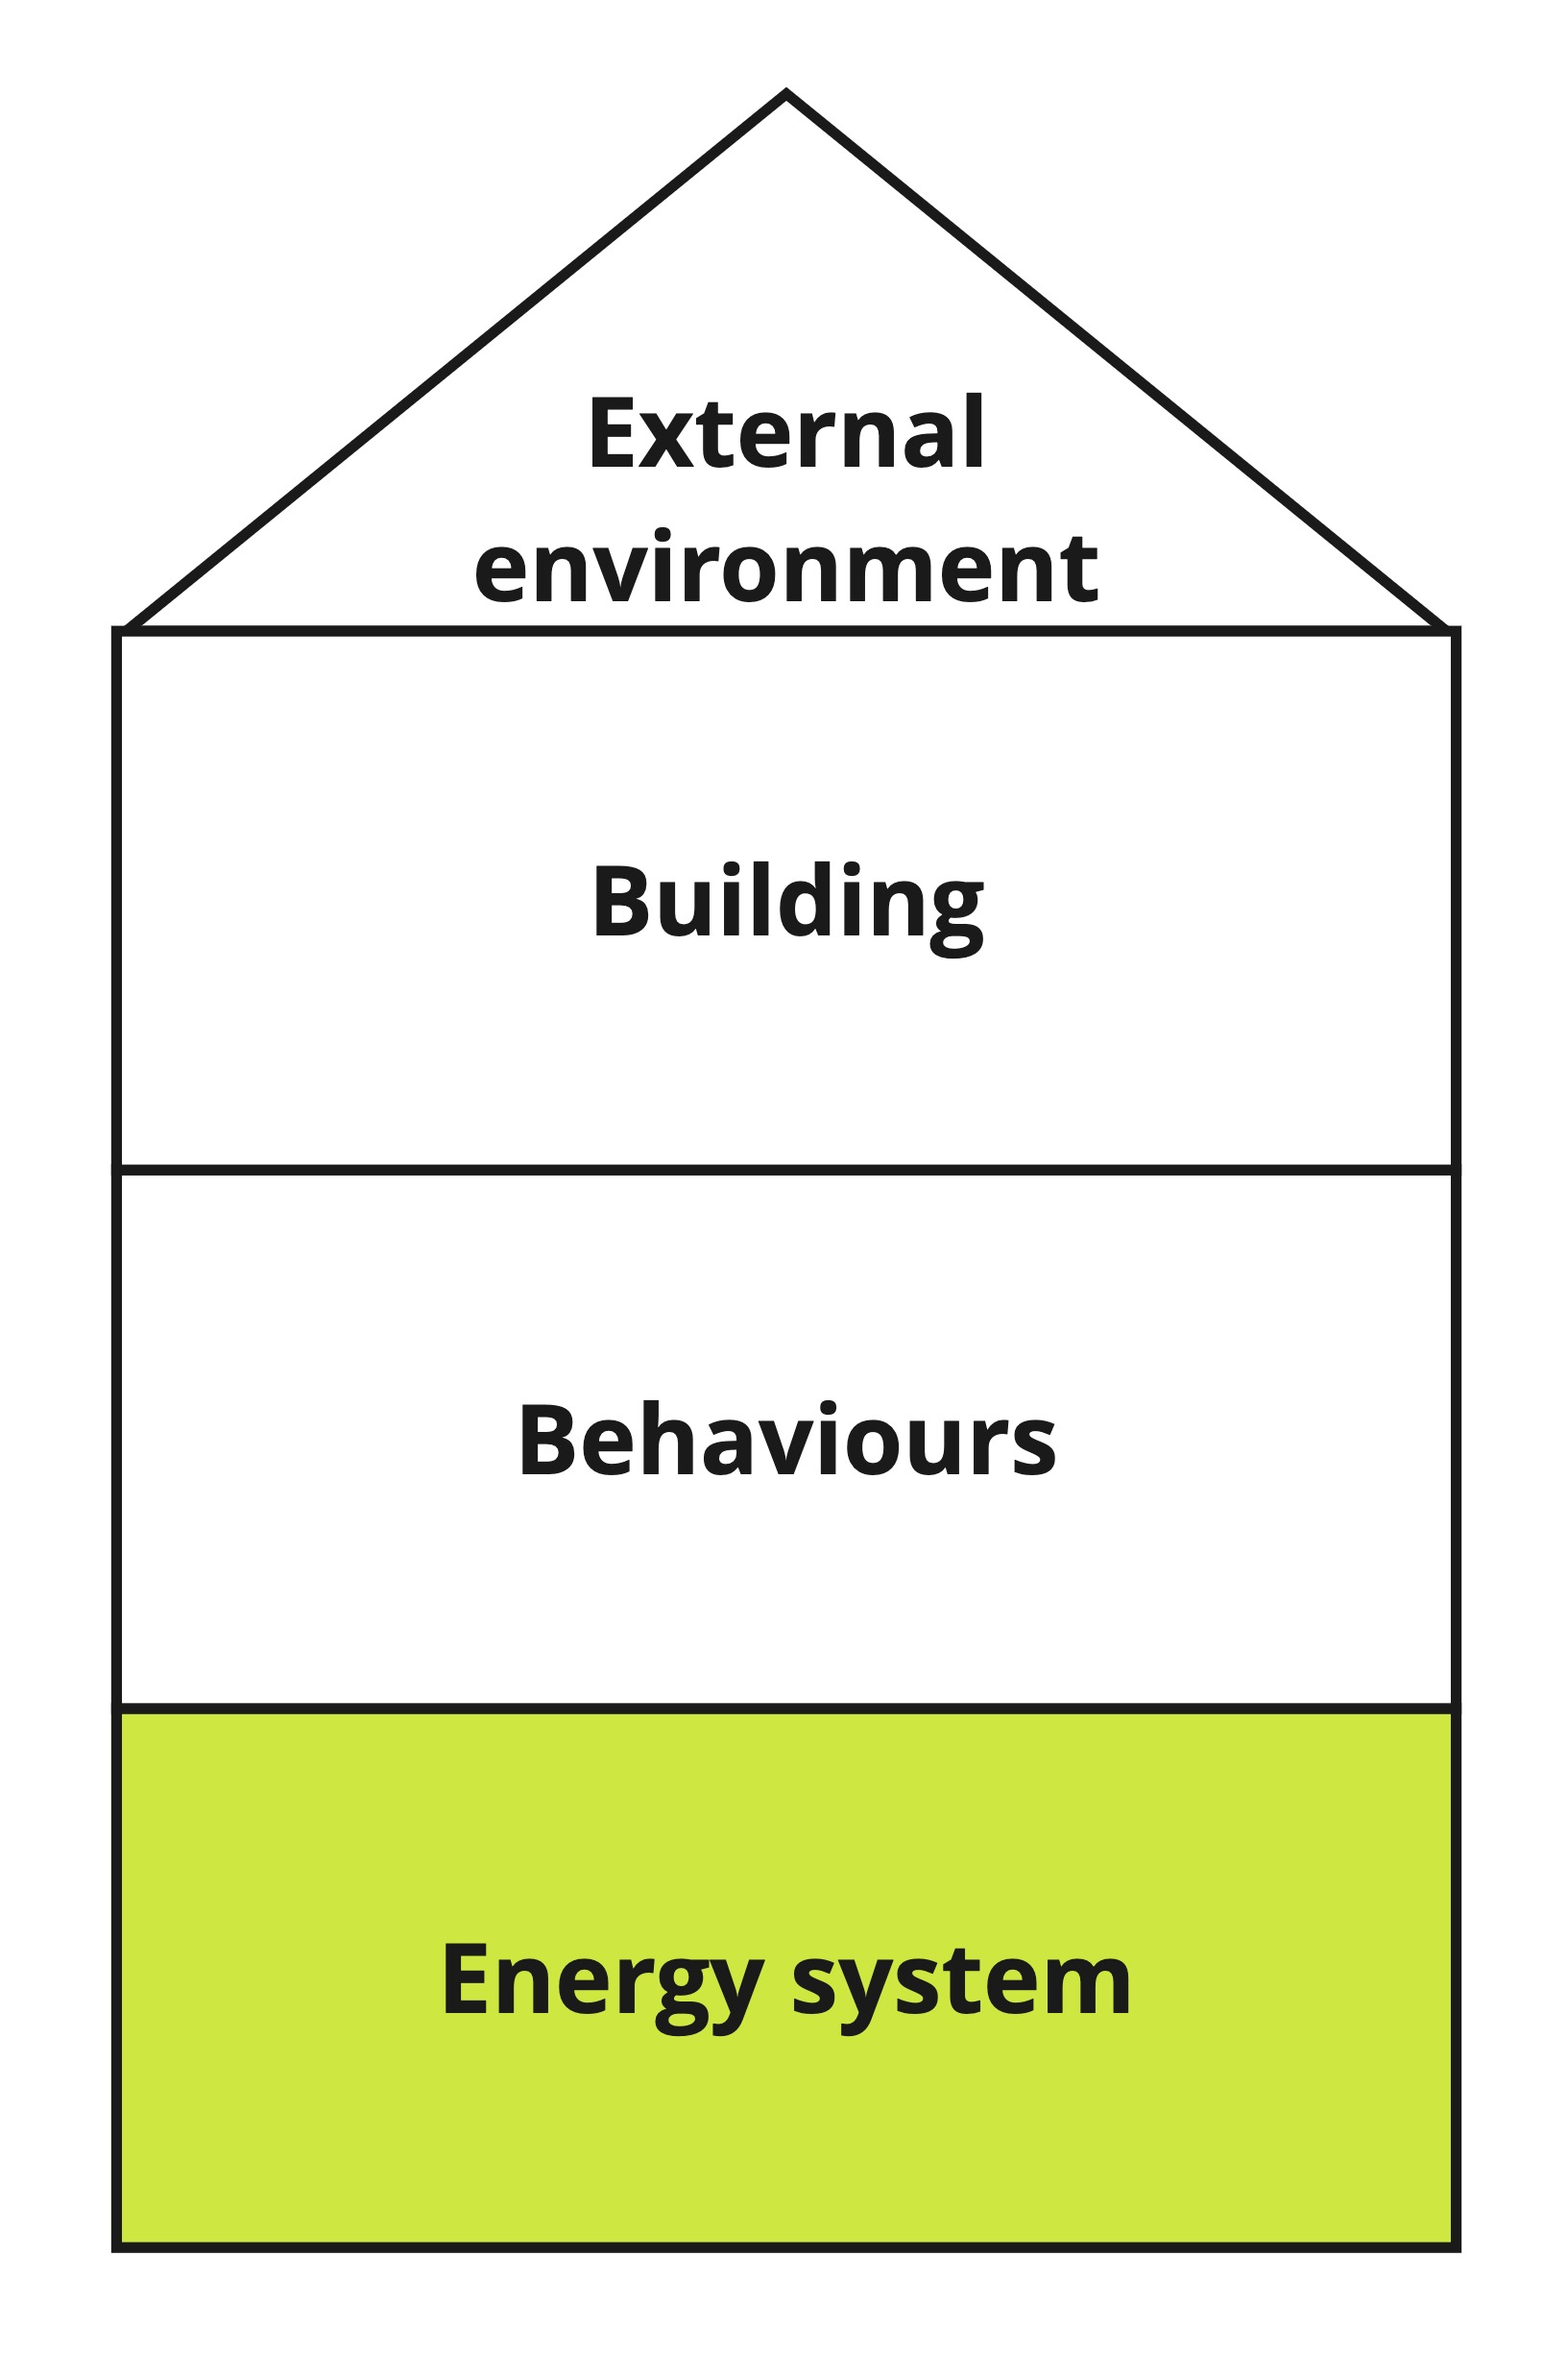
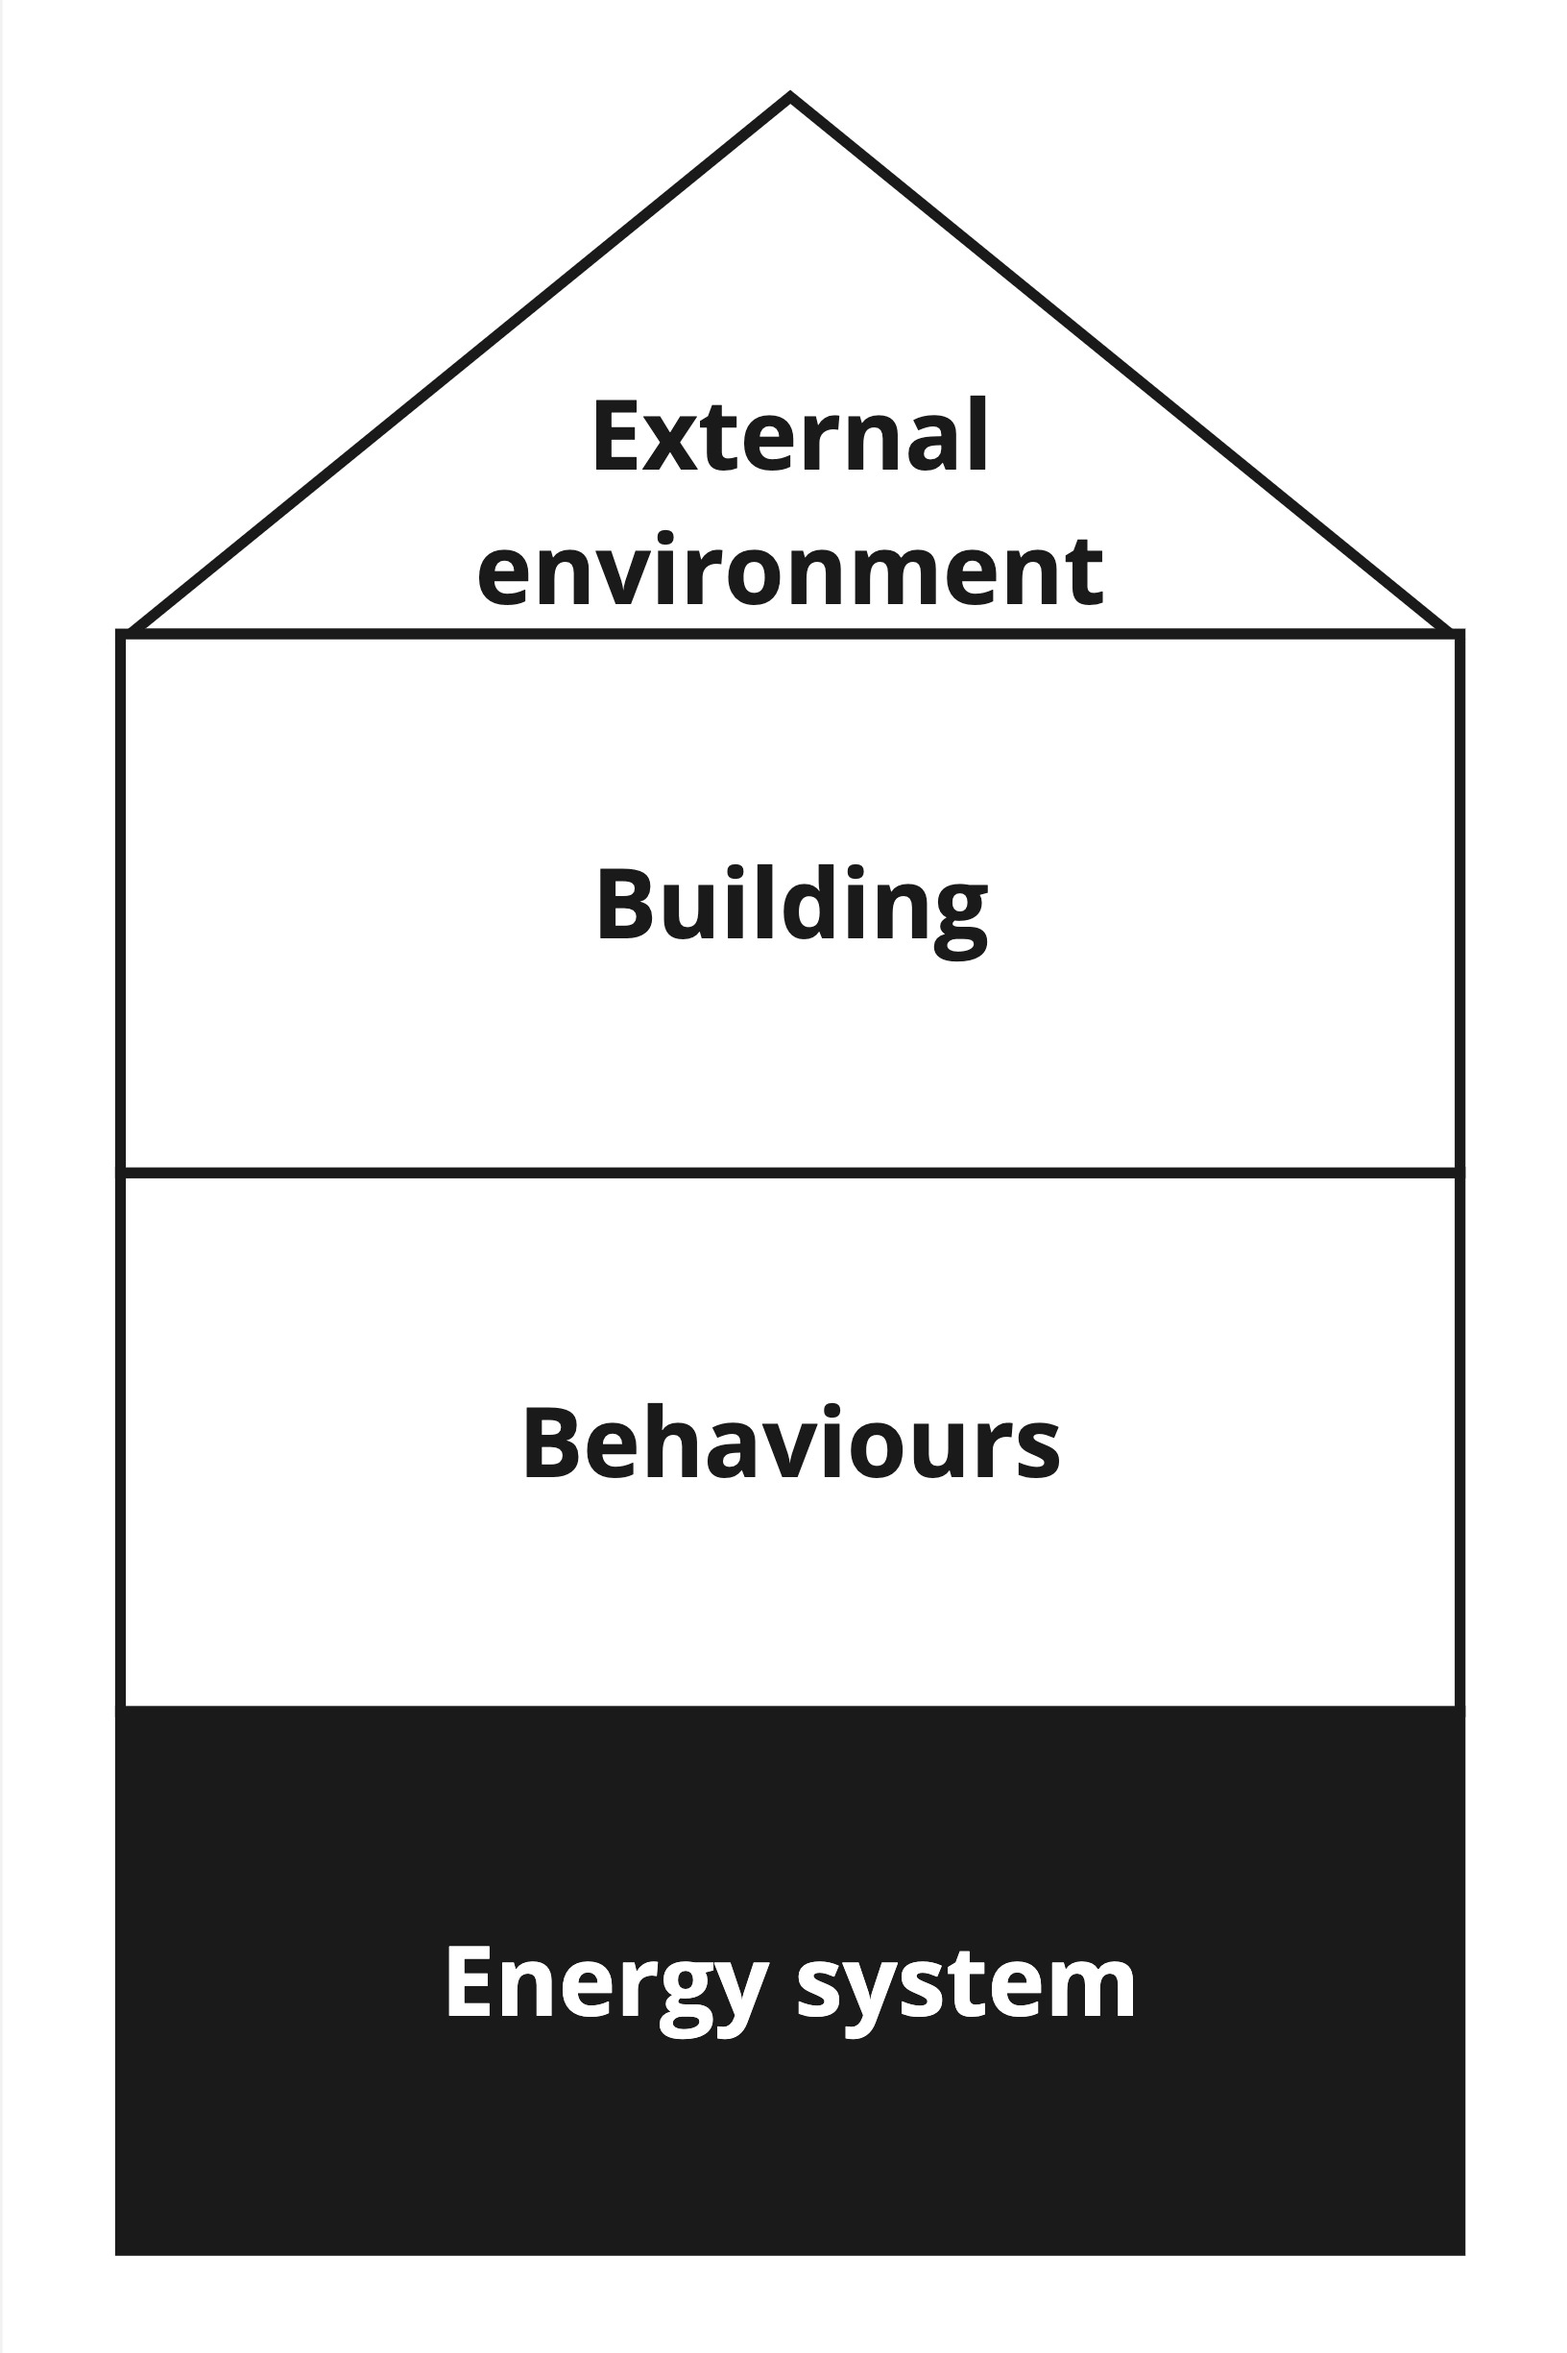
add consent a and replace colour pic to b/w pic

diff --git a/Chapters/04_Design.tex b/Chapters/04_Design.tex
@@ -57,7 +57,7 @@ various factors that may impact the household's energy consumption must be consi
 
 \begin{figure}[h]
   \centering
-  \includegraphics[width=0.4\textwidth]{Images/household_profile.jpg}
+  \includegraphics[width=0.3\textwidth]{Images/household_profile.jpg}
   \caption{Household profile}
   \label{fig:profile}
 \end{figure}

diff --git a/Appendices/E.tex b/Appendices/E.tex
@@ -5,6 +5,11 @@
 
 \begin{figure}[h]
     \centering
+    \includegraphics[width=\textwidth]{Images/consent_a.jpg}
+\end{figure}
+
+\begin{figure}[h]
+    \centering
     \includegraphics[width=\textwidth]{Images/consent_b.jpg}
 \end{figure}
 
